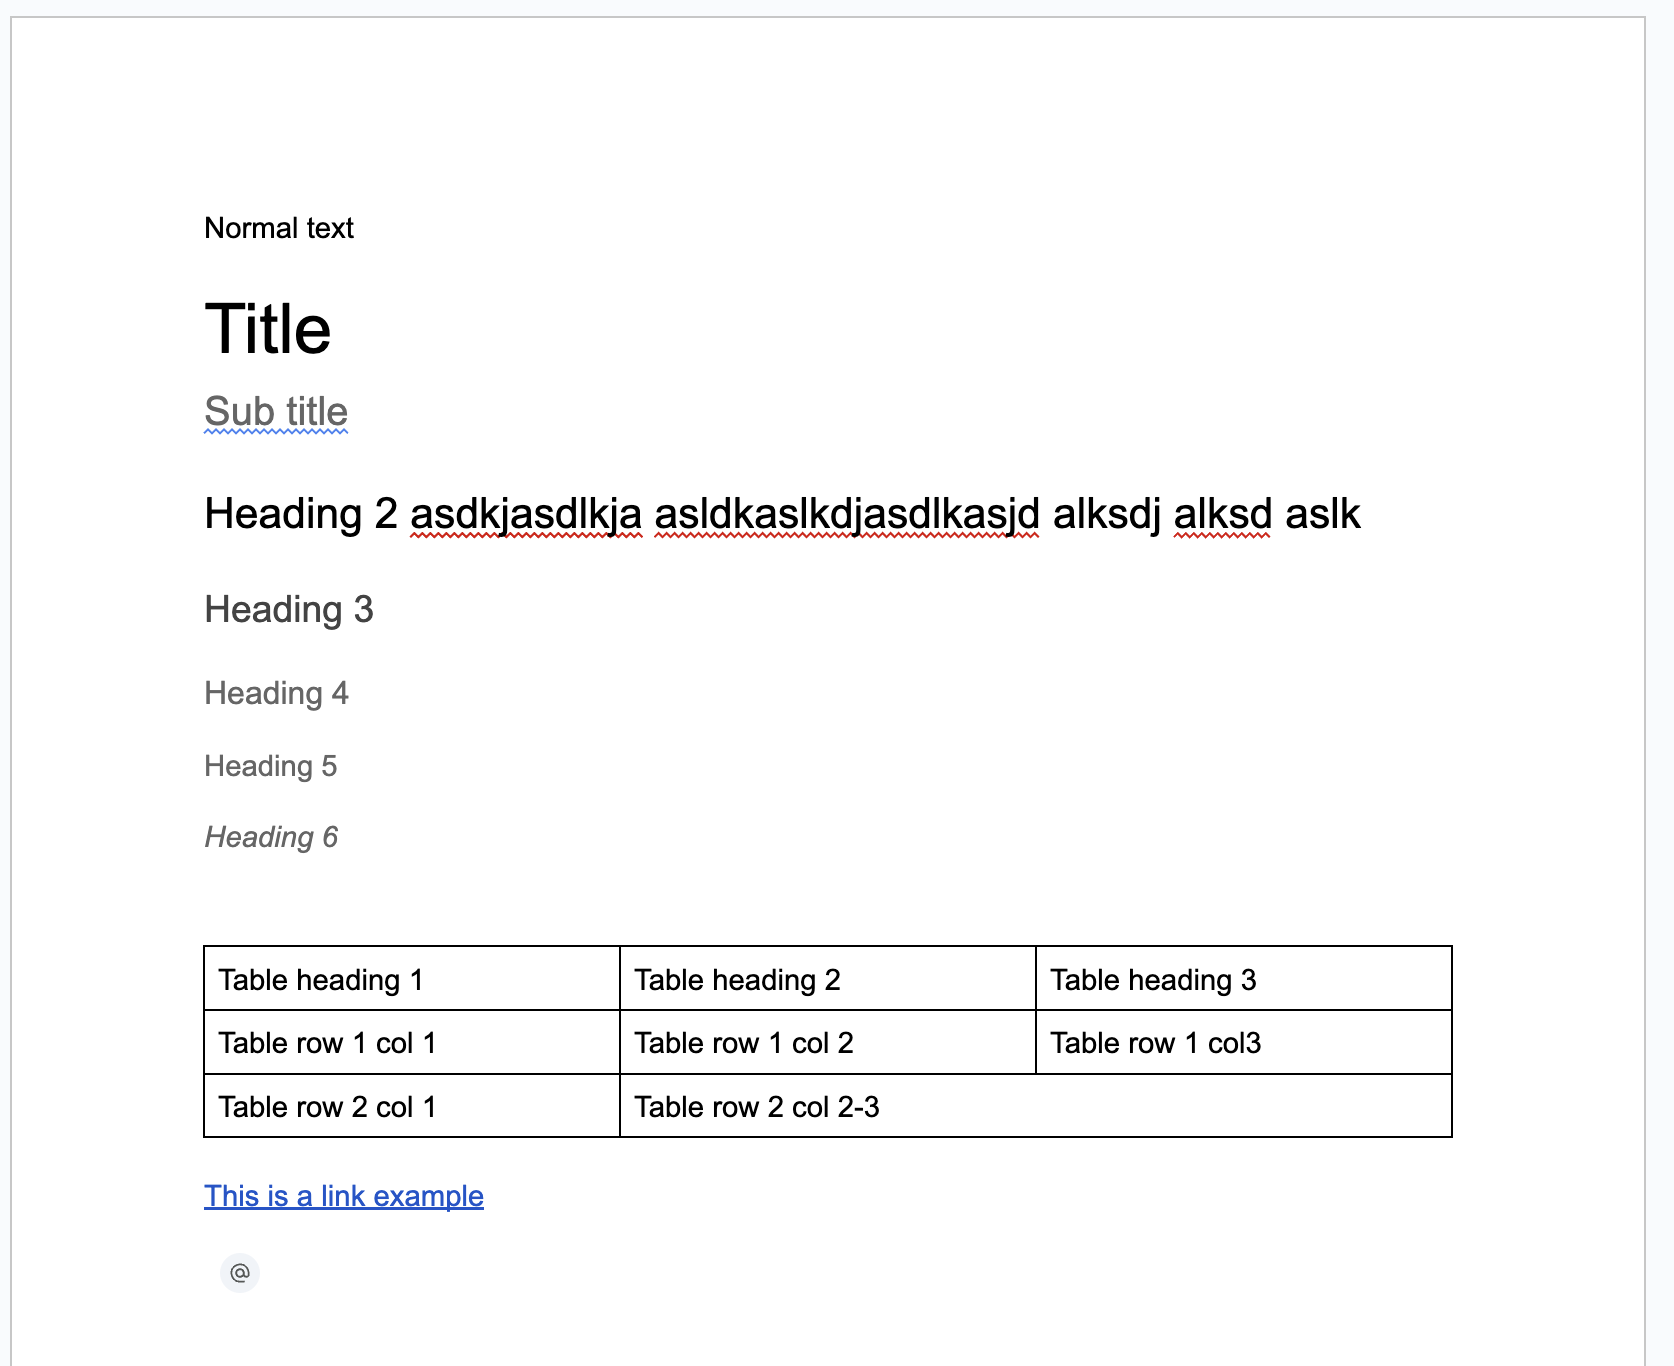
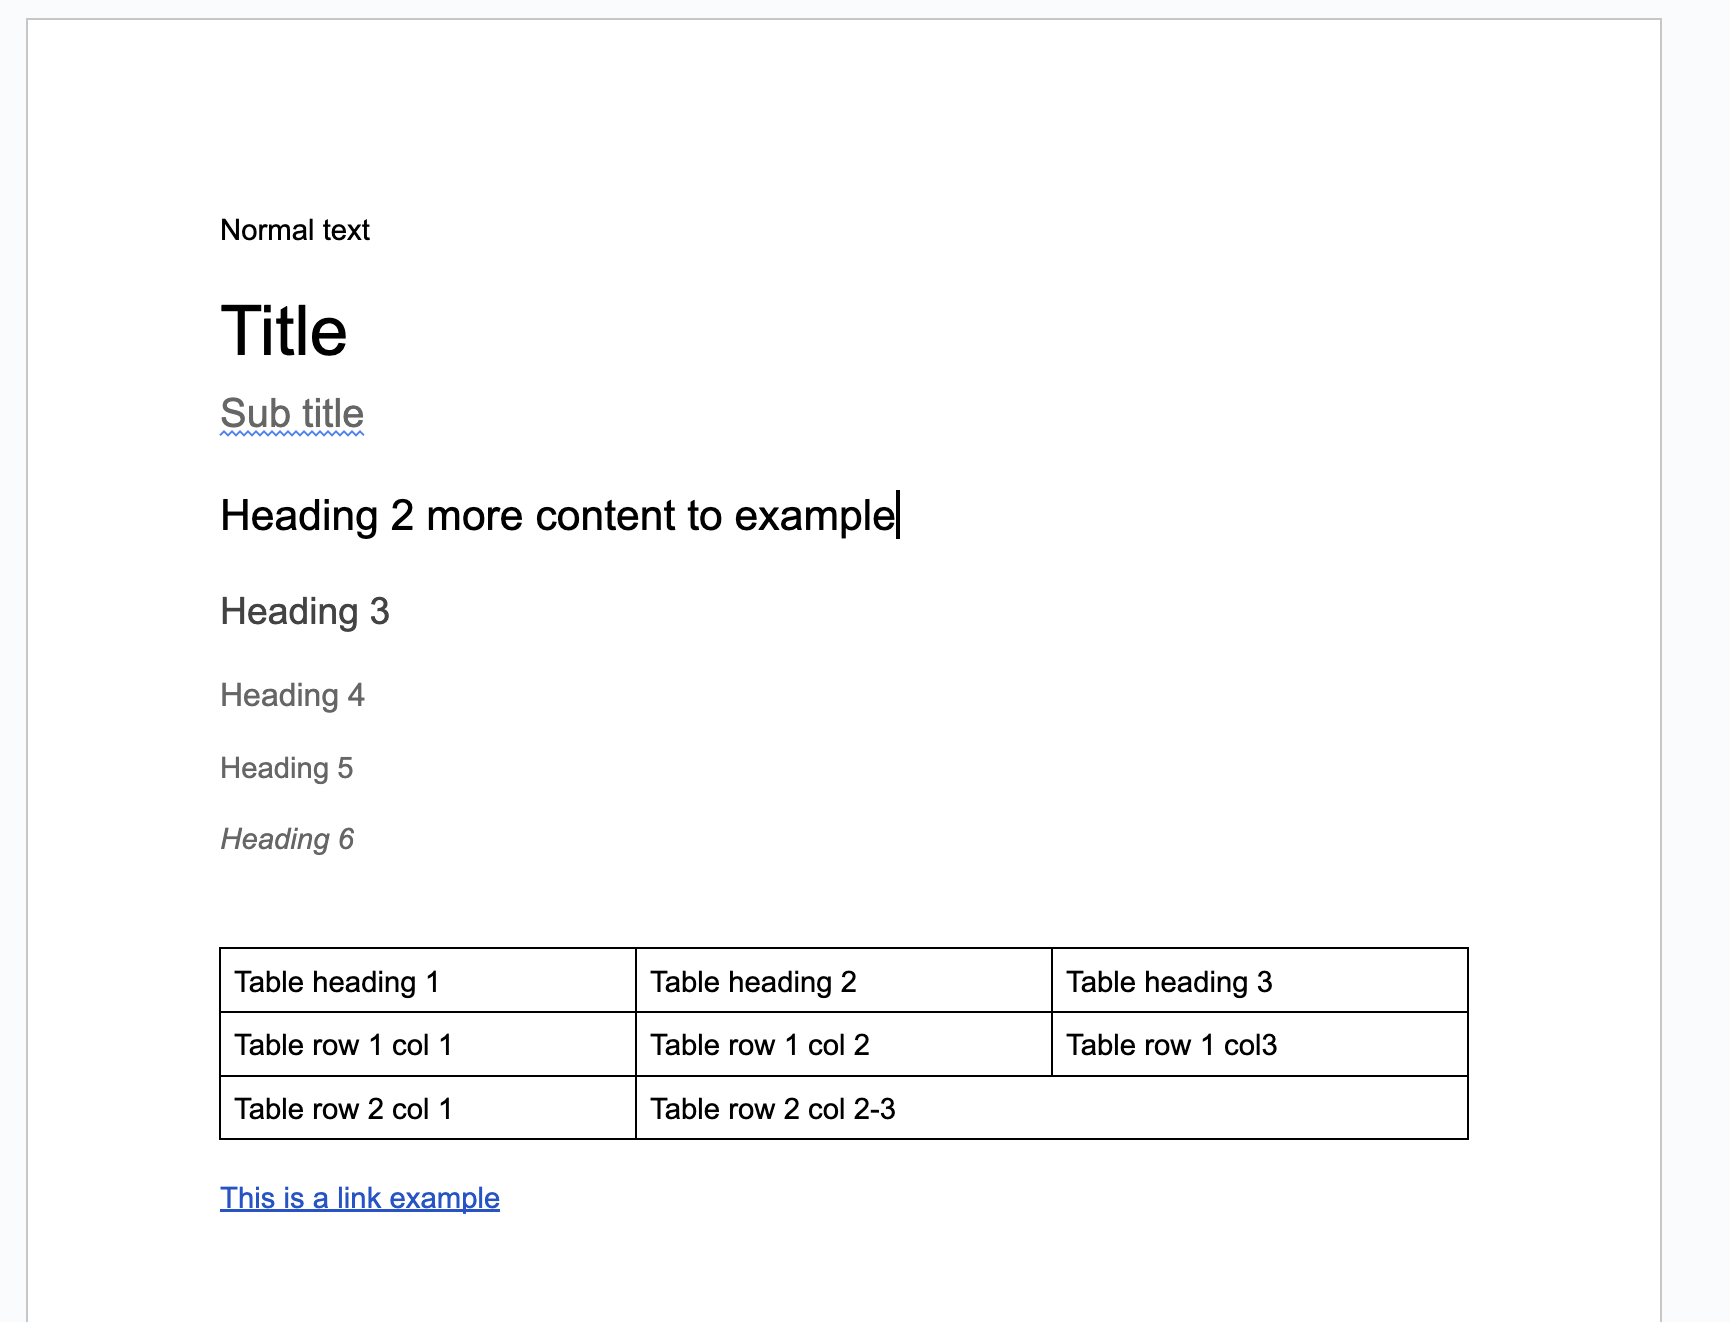
Documentation and resoning

diff --git a/docs/readme.md b/docs/readme.md
@@ -70,8 +70,8 @@ This will be transform into this apart from the HTML exampled above:
   <p>Normal text</p>
   <h1 id="title">Title</h1>
   <h3 id="sub-title">Sub title</h3>
-  <h2 id="heading-2-asdkjasdlkja-asldkaslkdjasdlkasjd-alksdj-alksd-aslk">
-    Heading 2 asdkjasdlkja asldkaslkdjasdlkasjd alksdj alksd aslk
+  <h2 id="heading-2-more-content-to-example">
+    Heading 2 more content to example
   </h2>
   <h3 id="heading-3">Heading 3</h3>
   <h4 id="heading-4">Heading 4</h4>
@@ -101,7 +101,7 @@ So we can resume the server side render into this simple rules:
 1 - Title formating are H1
 2 - Sub title formating are h3
 3 - All other headings follows the proper name - element correlation
-4 - All headings will be attached a ID based on it's content
+4 - All headings will be attached a ID based on it's content (example in the "asdkjasdlkja..." content)
 5 - Tables will render one and only header as a classname, lowercase dash separated
 6 - Tables rows will create one div per column
 7 - Tables will be only rendered as <table> when inside another table
